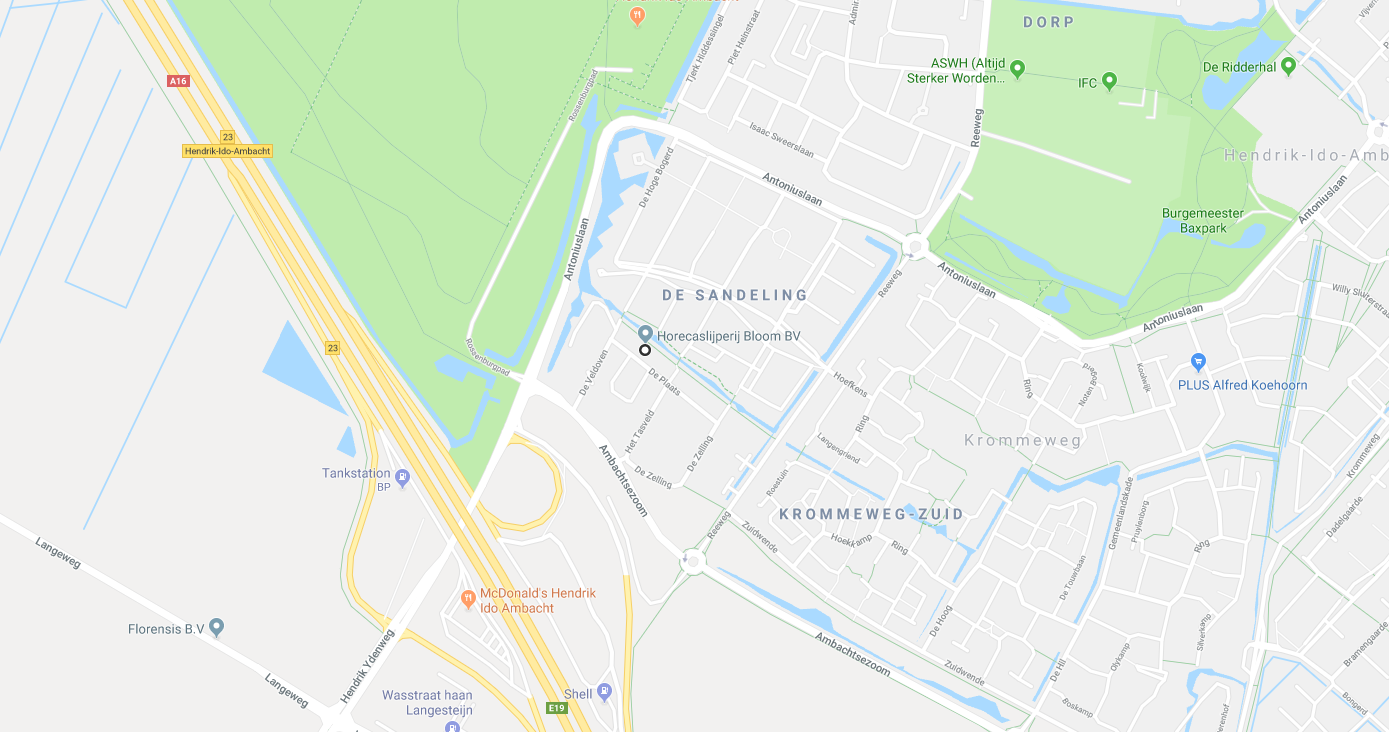
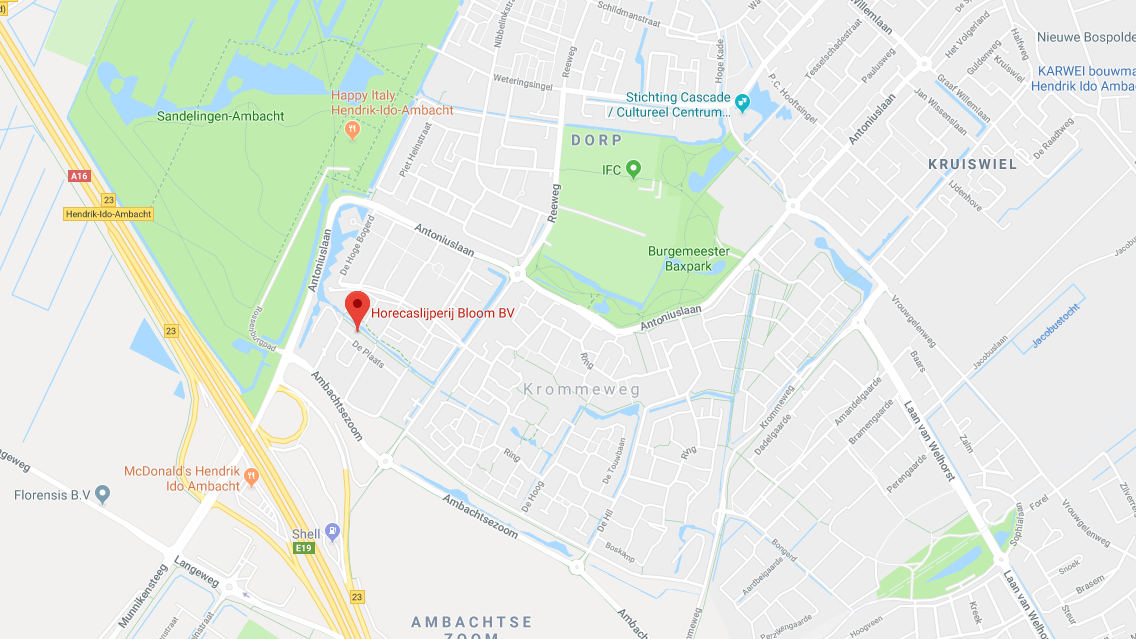
changed pictures and descriptions on different pages

diff --git a/components/index-container/IndexContainer.jsx b/components/index-container/IndexContainer.jsx
@@ -41,7 +41,7 @@ class IndexContainer extends React.Component {
         <Divider />
         <InfoSectionReversed
           infoTitle="Horecaslijperij Bloom B.V."
-          infoText="Door middel van uitstekend uitgeruste mobiele slijpunits kunnen wij bijna alle voorkomende slijpwerkzaamheden bij u als klant ter plaatse uitvoeren. Tijdens het slijpen kunt u gebruik maken van een leenset messen, zodat de werkzaamheden in de keuken gewoon door kunnen gaan. Ook op onze locatie in Hendrik-Ido-Ambacht is het mogelijk messen en andere te slijpen spullen in te leveren. Elke dag zitten onze planners klaar om uw vragen te beantwoorden. Wilt u een afspraak maken? Neem dan even contact met ons op."
+          infoText="Of het nu gaat om koksmessen, brood(kartel)messen, keukenmessen, tafelmessen of machinemessen, elk mes heeft zijn eigen specifieke vorm en functie. Omdat elke functie een verschillende gebruiksdiscipline vereist, is het van groot belang dat het mes ook na het slijpen zijn specifieke vorm en functie behoudt. Bovendien voorkomt het werken met echt scherpe messen een hoop ongerief en ergernis. Door middel van uitstekend uitgeruste mobiele slijpunits kunnen wij bijna alle voorkomende slijpwerkzaamheden bij u als klant ter plaatse uitvoeren. Tijdens het slijpen kunt u gebruik maken van een leenset messen, zodat de werkzaamheden in de keuken gewoon door kunnen gaan. Ook op onze locatie in Hendrik-Ido-Ambacht is het mogelijk messen en andere te slijpen spullen in te leveren. Elke dag zitten onze planners klaar om uw vragen te beantwoorden. Wilt u een afspraak maken? Neem dan even contact met ons op."
           src="../../static/photos/index/bussen.jpg"
           alt="Bussen"
 

diff --git a/components/chef-knife-container/ChefKnifeContainer.jsx b/components/chef-knife-container/ChefKnifeContainer.jsx
@@ -14,7 +14,7 @@ class ChefKnifeContainer extends React.Component {
           infoTitle="Koksmessen Slijpen"
           infoText="Er zijn veel verschillende soorten messen die koksmessen genoemd worden. Uiteraard slijpen wij al deze messen. Zowel de Westerse als de Oosterse messen worden met alle zorg en expertise behandeld. Naast het multifunctionele koksmes, slijpen wij ook uitbeenmessen, fileermessen, officemessen, tourneermessen, slagersmessen, hakmessen, kaaswiegen, broodmessen en natuurlijk tafelmessen. Een Usuba, Nakiri, Yanagiba, Takohiki, Santoku of Sushikiri kunt u gewoon bij ons inleveren en wij slijpen het lemmet weer naar perfecte scherpte. Wij letten bij ieder mes op de oorspronkelijke vorm en functie en slijpen deze op locatie weer naar de juiste scherpte. Ook voor een magimix of groentecutter bent u bij ons aan het juiste adres"
           //Of het nu gaat om koksmessen, brood(katrtel)messen, keukenmessen, tafelmessen of machinemessen, elk mes heeft zijn eigen specifieke vorm en functie. Omdat elke functie een verschillende gebruiksdiscipline vereist, is het van groot belang dat het mes ook na het slijpen zijn specifieke vorm en functie behoudt. Bovendien voorkomt het werken met echt scherpe messen een hoop ongerief en ergernis.
-          src="../../static/photos/chef-knives/kitchen-knife.jpg"
+          src="../../static/photos/chef-knives/MainPhoto3.png"
           alt="Koksmessen"
         />
         <Divider />

diff --git a/components/contact-information/ContactInformation.jsx b/components/contact-information/ContactInformation.jsx
@@ -10,7 +10,7 @@ class ContactInformation extends React.Component {
         <div className="contact-info__photo-wrapper">
           <img
             className="contact-info__location-photo"
-            src="static/photos/index/locatie.png"
+            src="static/photos/index/locatie2.png"
             alt="Locatie foto"
           />
           <Link href="https://www.google.com/maps/dir/51.8414336,4.6276608/bloom+horeca+slijperij/@51.8398494,4.6208692,16z/data=!3m1!4b1!4m9!4m8!1m1!4e1!1m5!1m1!1s0x47c42e80d213833b:0x5f3cd128335d056d!2m2!1d4.6220539!2d51.8393255">
@@ -20,7 +20,7 @@ class ContactInformation extends React.Component {
             >
               <img
                 className="contact-info__map-photo"
-                src="static/photos/index/maps.png"
+                src="static/photos/index/maps2.png"
                 alt="Locatie foto"
               />
             </a>

diff --git a/components/cutting-boards-container/CuttingBoardsContainer.jsx b/components/cutting-boards-container/CuttingBoardsContainer.jsx
@@ -13,7 +13,7 @@ class CuttingBoardsContainer extends React.Component {
         <InfoSection
           infoTitle="Snijplanken Vlakken"
           infoText="Intensief gebruik van uw kostbare (kunststof) snijplanken veroorzaakt krassen. In deze krassen kunnen zich ongewenste bacteriën verzamelen. Voor een scherpe prijs kunnen wij uw snijplanken weer krasvrij maken, door deze te vlakken, zodat deze weer aan de HACCP normen voldoen. De snijplanken kunnen wij niet op locatie vlakken, maar deze nemen wij mee naar onze vestiging in Hendrik-Ido-Ambacht. In de tijd dat wij uw snijplanken vlakken, ontvangt u onze leenplanken, zodat het werk gewoon door kan gaan."
-          src="../../static/photos/cuttingboards/Cuttingboard4.jpg"
+          src="../../static/photos/cuttingboards/CuttingboardMain.png"
           alt="Snijplanken"
         />
       </div>

diff --git a/components/table-knife-container/TableKnifeContainer.jsx b/components/table-knife-container/TableKnifeContainer.jsx
@@ -29,8 +29,8 @@ class TableKnifeContainer extends React.Component {
             photo="static/photos/table-knives/Tafelmes_steak.jpg"
           />
           <KnifeInfo
-            title="Broodmes"
-            info="Tafelmes met een grove kartel in het lemmet, voornamelijk gebruikt voor het snijden van brood en dergelijke op tafel."
+            title="Tafelmes"
+            info="Tafelmes met een grove kartel in het lemmet, voornamelijk gebruikt voor het snijden van hardere korsten (bijvoorbeeld stokbrood en pizza)."
             photo="static/photos/table-knives/Tafelmes_brood.jpg"
           />
 
